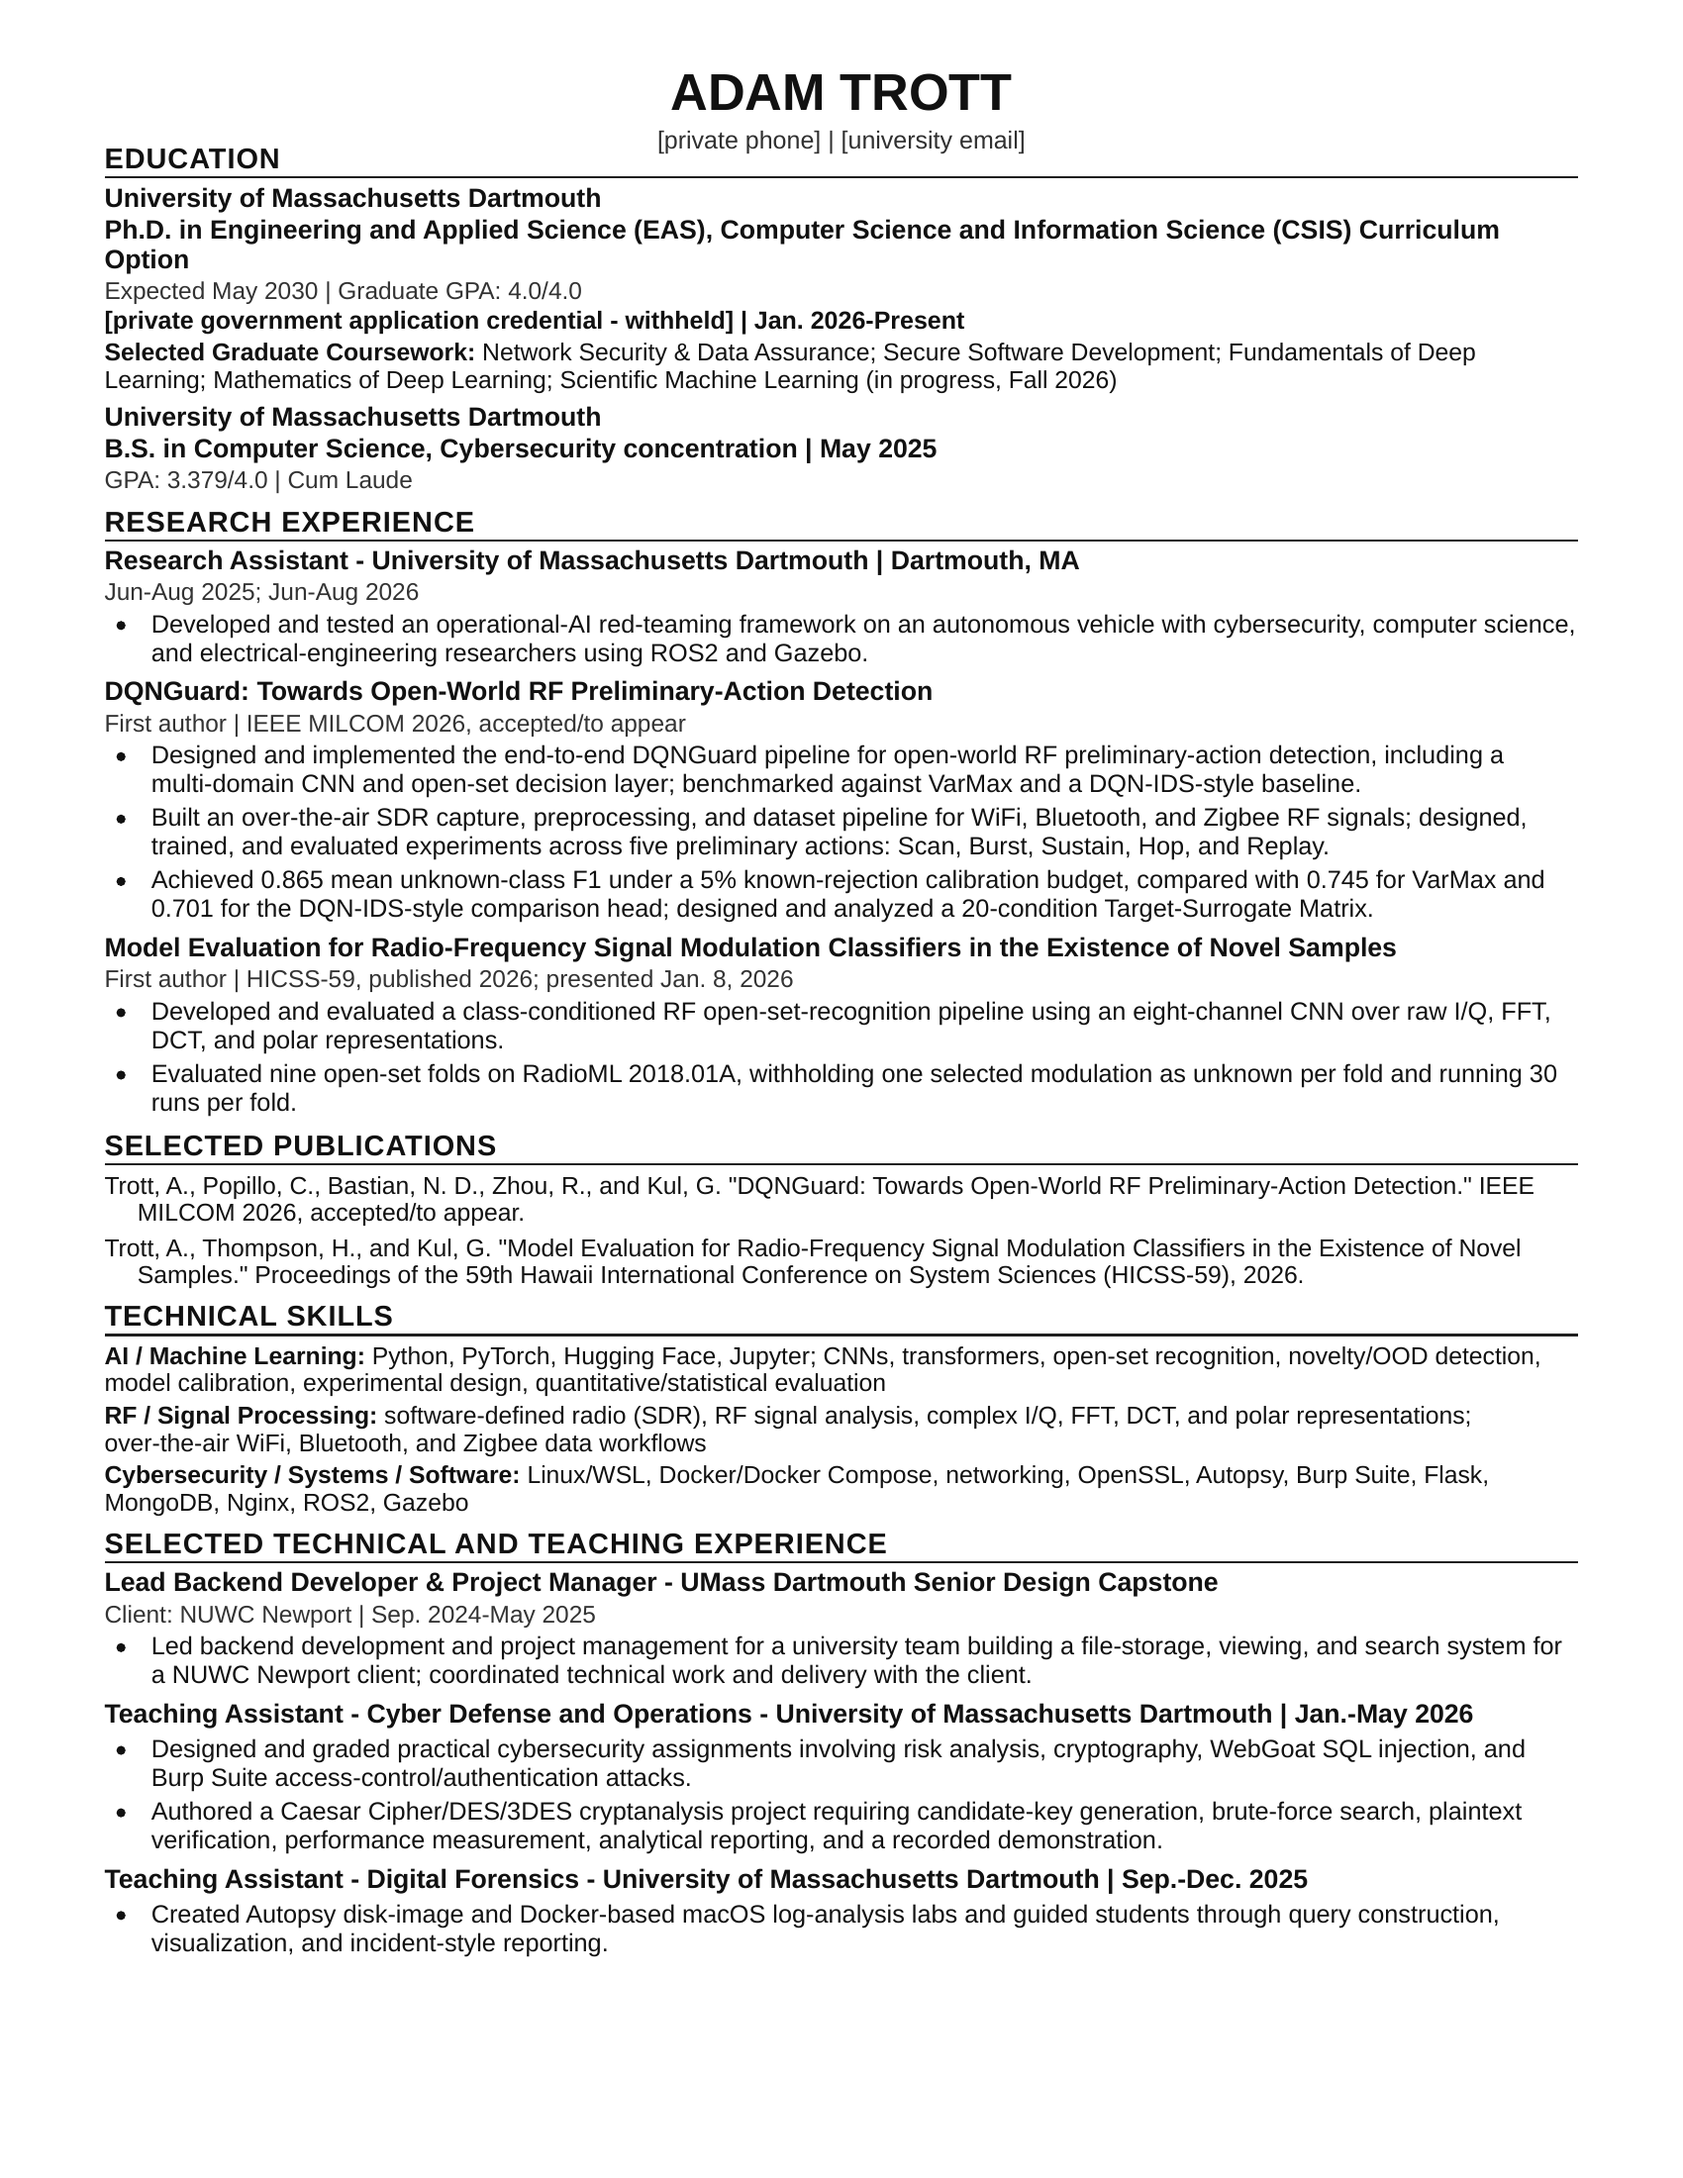
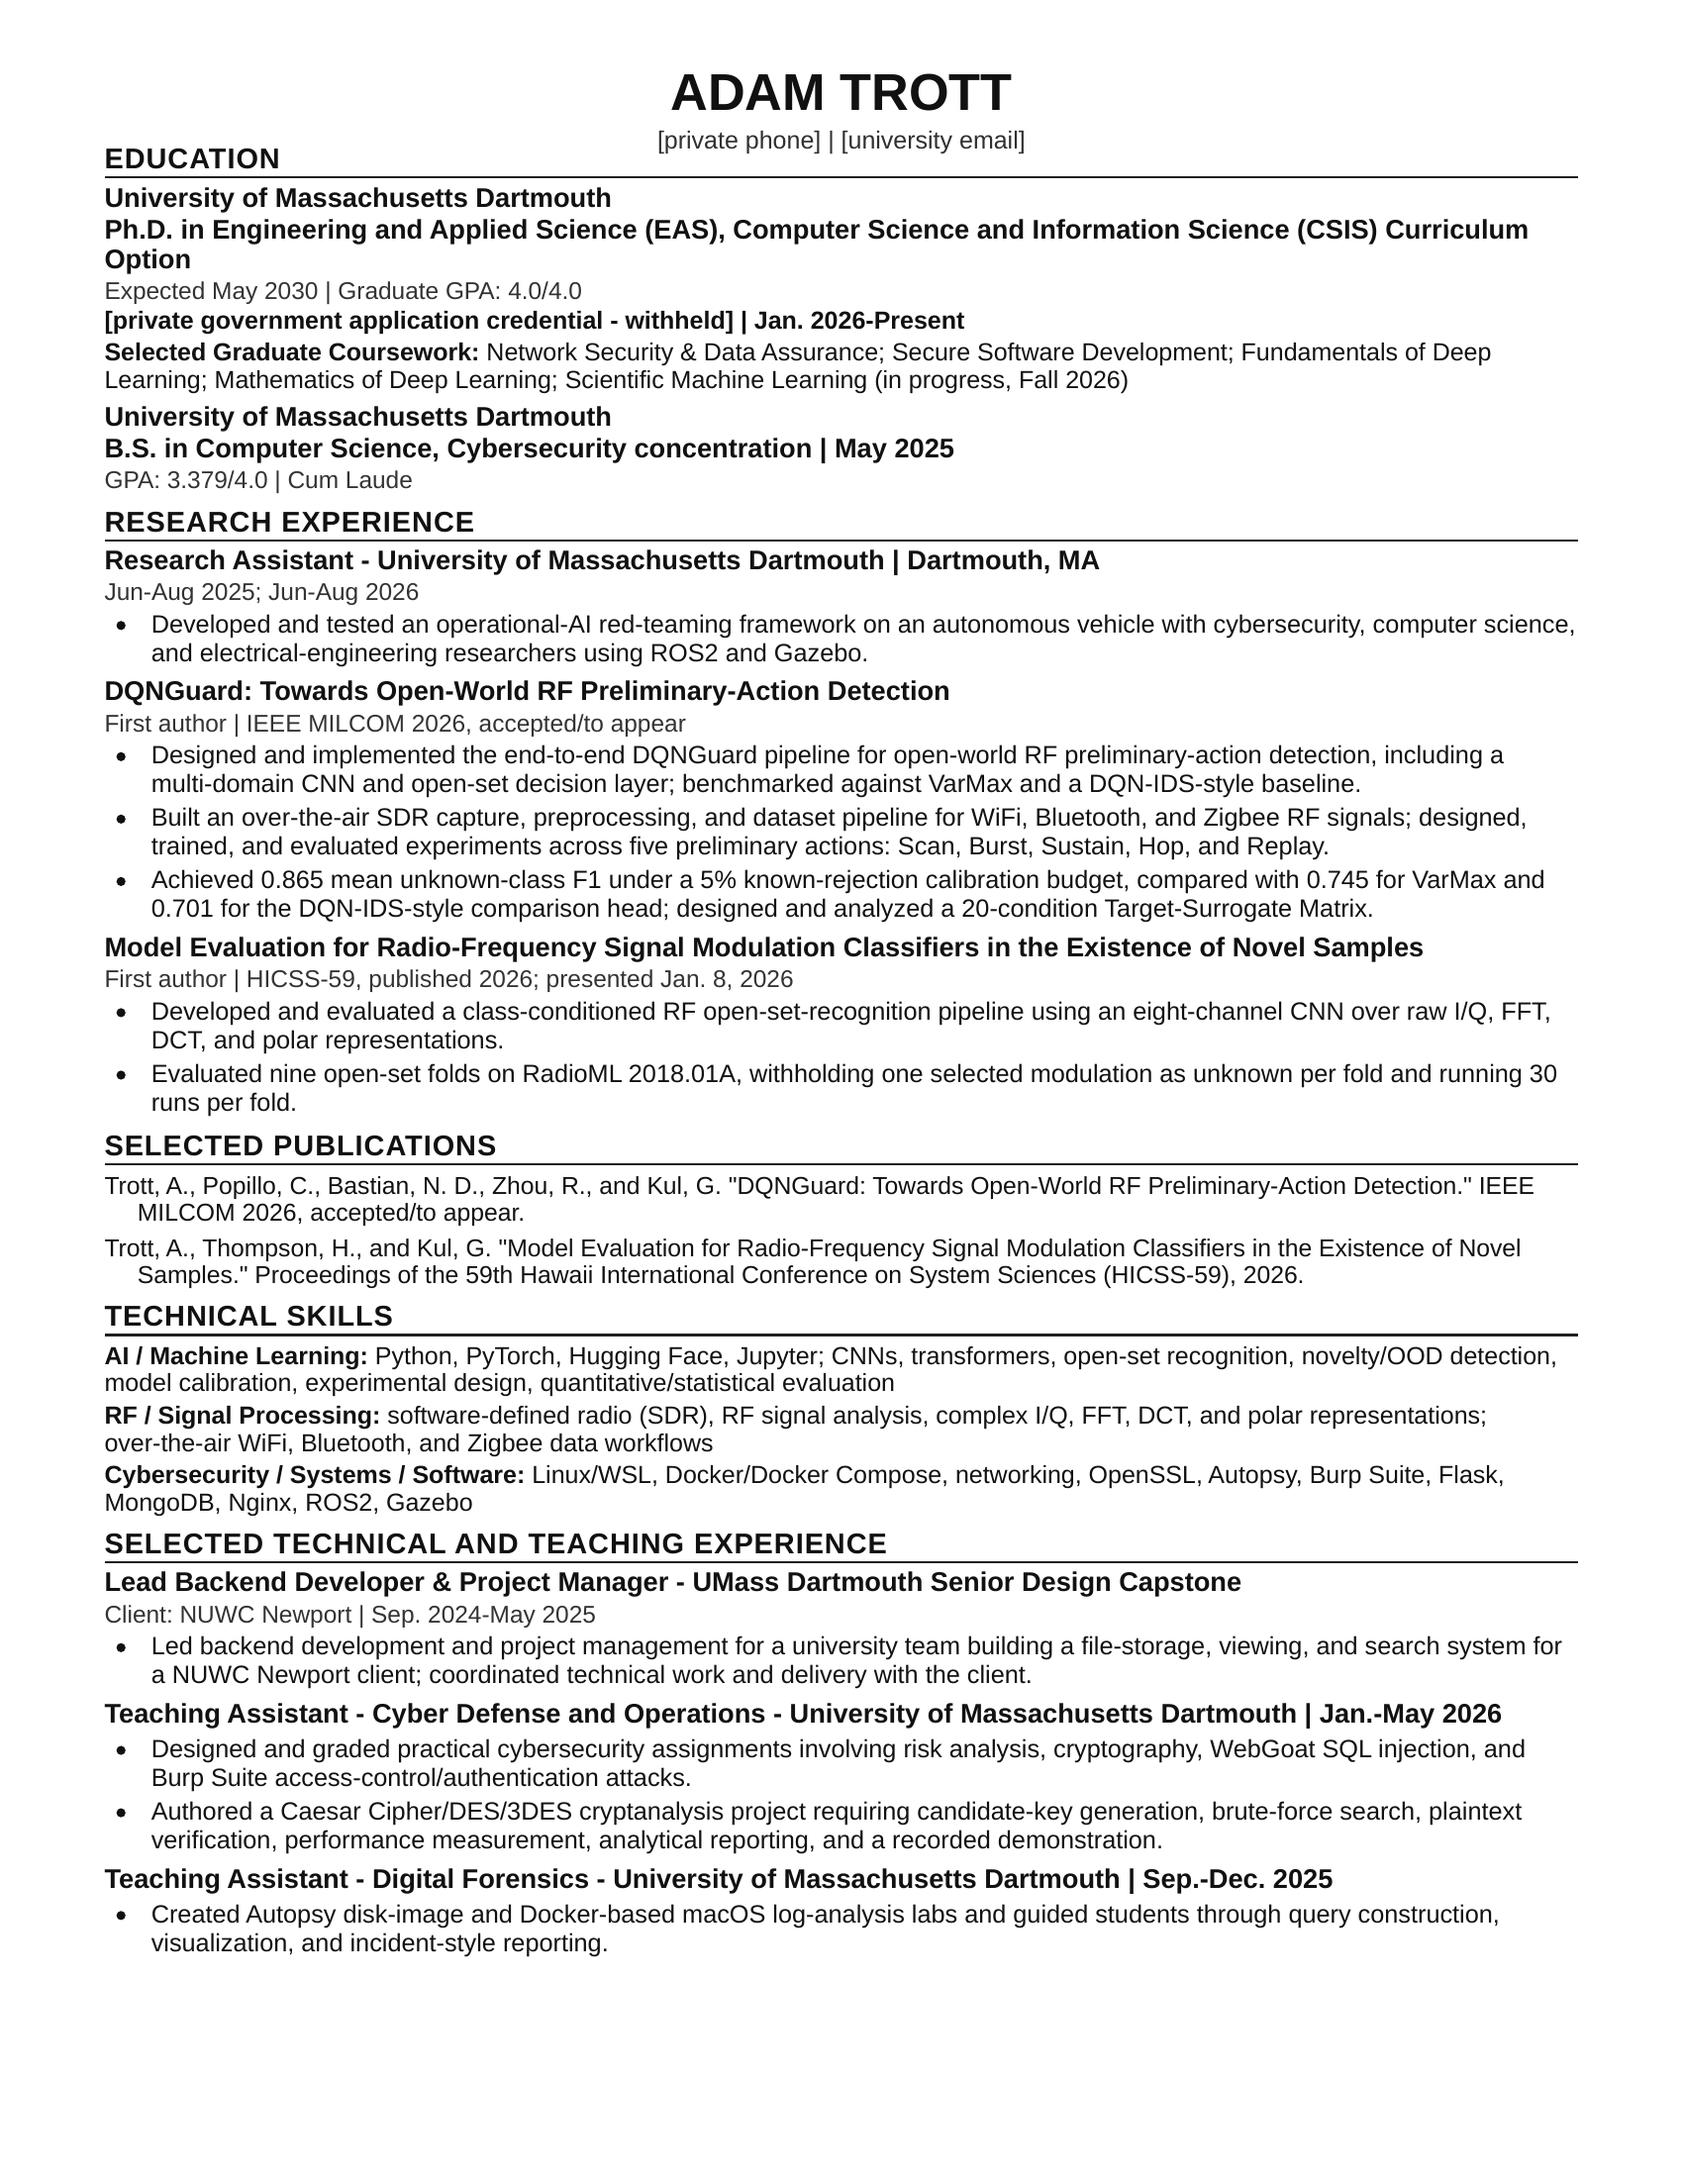
Harden NREIP resume cold-start workflow

diff --git a/resumes/applications/nreip2027/resume/build_resume.py b/resumes/applications/nreip2027/resume/build_resume.py
@@ -28,7 +28,7 @@ FONT_FAMILY = "Liberation Sans"
 NAME_SIZE = 18.8
 CONTACT_SIZE = 9.0
 SECTION_SIZE = 10.4
-HEADING_SIZE = 9.6
+HEADING_SIZE = 9.8
 BODY_SIZE = 9.1
 META_SIZE = 8.8
 PUB_SIZE = 8.9
@@ -224,17 +224,29 @@ def require_command(name: str) -> None:
 
 
 def fc_file(pattern: str) -> Path:
+    if shutil.which("fc-match") is None:
+        raise RuntimeError("required command not found: fc-match")
+
     result = run(
-        ["fc-match", "-f", "%{file}\n", pattern],
+        ["fc-match", "-f", "%{family}\n%{file}\n", pattern],
         capture=True,
     ).strip().splitlines()
 
-    if not result:
+    if len(result) < 2:
         raise RuntimeError(f"font not found: {pattern}")
 
-    path = Path(result[0])
+    families = [item.strip() for item in result[0].split(",")]
+
+    if FONT_FAMILY not in families:
+        raise RuntimeError(
+            f"Fontconfig substituted {result[0]!r} for required "
+            f"family {FONT_FAMILY!r}"
+        )
+
+    path = Path(result[1])
     if not path.is_file():
         raise RuntimeError(f"font path does not exist: {path}")
+
     return path
 
 
@@ -331,27 +343,17 @@ def verify_locked_sources() -> None:
 
     plan_n = norm_locked_source(plan)
 
-    required = [
-        CONTENT["education"]["institution_grad"],
-        CONTENT["education"]["degree_grad"],
-        CONTENT["education"]["grad_meta"],
-        CONTENT["education"]["institution_bs"],
-        CONTENT["education"]["degree_bs"],
-        CONTENT["education"]["bs_meta"],
-        CONTENT["research"]["dqn_title"],
-        CONTENT["research"]["dqn_meta"],
-        CONTENT["research"]["hicss_title"],
-        CONTENT["research"]["hicss_meta"],
-        *CONTENT["research"]["dqn_bullets"],
-        *CONTENT["research"]["hicss_bullets"],
-        *CONTENT["publications"],
-        CONTENT["experience"]["capstone_bullet"],
-        *CONTENT["experience"]["cyber_bullets"],
-        CONTENT["experience"]["forensics_bullet"],
-    ]
+    def string_leaves(value):
+        if isinstance(value, str):
+            yield value
+        elif isinstance(value, dict):
+            for child in value.values():
+                yield from string_leaves(child)
+        elif isinstance(value, (list, tuple)):
+            for child in value:
+                yield from string_leaves(child)
 
-    for label, body in CONTENT["skills"]:
-        required.extend([label, body])
+    required = list(string_leaves(CONTENT))
 
     for item in required:
         if norm(item) not in plan_n:
@@ -679,7 +681,7 @@ def build_page(contact: str, credential: str) -> Page:
         page,
         CONTENT["education"]["coursework_label"],
         CONTENT["education"]["coursework"],
-        size=8.9,
+        size=9.0,
         leading=10.0,
         gap=1.3,
     )
@@ -725,7 +727,7 @@ def build_page(contact: str, credential: str) -> Page:
             page,
             label,
             body,
-            size=8.9,
+            size=9.0,
             leading=9.95,
             gap=0.0 if idx == 0 else 1.8,
         )
@@ -771,23 +773,6 @@ def render_svg_to_pdf(svg_path: Path, pdf_path: Path) -> None:
             str(svg_path),
             "--export-area-page",
             f"--export-filename={pdf_path}",
-        ]
-    )
-
-
-def merge_pdf(page1: Path, page2: Path, output: Path) -> None:
-    run(
-        [
-            "gs",
-            "-q",
-            "-dSAFER",
-            "-dBATCH",
-            "-dNOPAUSE",
-            "-sDEVICE=pdfwrite",
-            "-dCompatibilityLevel=1.6",
-            f"-sOutputFile={output}",
-            str(page1),
-            str(page2),
         ]
     )
 
@@ -932,44 +917,6 @@ def render_ghostscript(pdf: Path, temp_dir: Path) -> list[Path]:
         raise RuntimeError("Ghostscript secondary render failed.")
 
     return [page]
-
-def create_contact_sheet(
-    page1: Path,
-    page2: Path,
-    output: Path,
-) -> None:
-    images = [
-        Image.open(page1).convert("RGB"),
-        Image.open(page2).convert("RGB"),
-    ]
-
-    target_h = 1100
-    thumbs = []
-
-    for image in images:
-        scale = target_h / image.height
-        target_w = round(image.width * scale)
-        thumbs.append(
-            image.resize(
-                (target_w, target_h),
-                Image.Resampling.LANCZOS,
-            )
-        )
-
-    gap = 24
-    margin = 18
-    width = sum(img.width for img in thumbs) + gap + margin * 2
-    height = target_h + margin * 2
-
-    sheet = Image.new("RGB", (width, height), "white")
-
-    x = margin
-    for image in thumbs:
-        sheet.paste(image, (x, margin))
-        x += image.width + gap
-
-    sheet.save(output, "PNG")
-
 
 def check_renderer_dimensions(
     poppler_pages: list[Path],

diff --git a/resumes/applications/nreip2027/SVG_PRODUCTION_SPEC.md b/resumes/applications/nreip2027/SVG_PRODUCTION_SPEC.md
@@ -155,21 +155,22 @@ The rendered document should still read correctly if all formatting is stripped.
 Use a professional sans-serif font with reliable PDF embedding and text
 extraction.
 
-Preferred family:
+Required family for the current implementation:
 
 `Liberation Sans`
 
-Accepted fallback only if font preflight establishes availability and stable
-metrics:
-
-`Arial`
+The current builder does **not** implement a fallback font.
 
 Do not use a custom downloaded font or commit font files to the repository.
 
-The builder must verify that the selected production font is available before
-rendering.
+The builder must verify that Fontconfig resolves the requested production family
+to **Liberation Sans** before rendering.
 
-Do not silently substitute a materially different font.
+If Liberation Sans is unavailable, fail the build rather than accepting a
+Fontconfig nearest-match substitution.
+
+A future fallback font requires an explicit production-spec revision and metric /
+visual validation before use.
 
 ### Minimum sizes
 
@@ -641,13 +642,17 @@ Inspect for:
 
 A successful script exit is not evidence of visual correctness.
 
-For the final private PDF, perform a secondary-renderer sanity check when a
-second independent PDF renderer is available. The objective is to catch
-renderer-specific clipping, glyph substitution, font behavior, or layout
-differences before submission.
+The builder should render the PDF independently with Poppler and Ghostscript.
 
-A renderer disagreement that materially changes text or layout is a QA failure
-until understood.
+Automated secondary-renderer QA may verify that both renderers successfully
+produce the expected page dimensions. That check is a **sanity check**, not pixel
+or layout equivalence.
+
+Human visual QA remains responsible for identifying clipping, glyph
+substitution, font behavior, or layout defects that a dimension-only automated
+check cannot detect.
+
+Any visually material renderer disagreement is a QA failure until understood.
 
 ## Public/private parity QA
 

diff --git a/resumes/applications/nreip2027/CONTEXT.md b/resumes/applications/nreip2027/CONTEXT.md
@@ -35,7 +35,7 @@ content-locked.
 - resume content architecture and exact résumé copy: content-locked; page budget revised to one page after first visual build;
 - SVG production specification: production-locked and explicitly revised to a one-page contract after first visual QA;
 - builder: one-page SVG/PDF implementation operational and visually reviewed;
-- SVG/PDF/PNG artifacts: one-page public and private builds pass structural, semantic, privacy, renderer-parity, and first visual QA;
+- SVG/PDF/PNG artifacts: one-page public and private builds pass structural, semantic, privacy, dual-render existence/dimension sanity checks, and first visual QA;
 - cold-start validation: not yet performed.
 
 ## First implementation result
@@ -53,7 +53,7 @@ The revised one-page build:
 - preserves the locked semantic content;
 - preserves selectable/extractable PDF text;
 - fits within the established minimum typography constraints;
-- passes independent Poppler/Ghostscript rendering checks;
+- renders successfully through both Poppler and Ghostscript with matching page dimensions;
 - keeps private submission fields confined to the ignored private build; and
 - is visually dense but readable, with research remaining the dominant section.
 

diff --git a/resumes/CONTEXT.md b/resumes/CONTEXT.md
@@ -124,9 +124,14 @@ the user explicitly decides otherwise include:
 Local private inputs belong under ignored `resumes/private/` or an
 application-specific ignored `private/` directory.
 
-A future builder may distinguish a tracked **public review** artifact from a
-local **private submission** artifact. That behavior is not yet implemented and
-must not be assumed until the production workflow establishes it.
+The NREIP implementation now demonstrates the public/private artifact pattern:
+
+- tracked **public review** artifacts contain only public-safe placeholders; and
+- local **private submission** artifacts resolve approved private values from
+  ignored application-specific inputs and remain ignored by Git.
+
+Future application builders may reuse this pattern only when their own production
+contract establishes the same privacy boundary.
 
 If a cold-start reader needs a private field that is not available in tracked
 context, ask the user for it rather than inventing or recovering it indirectly.

diff --git a/resumes/applications/nreip2027/RESUME_PLAN.md b/resumes/applications/nreip2027/RESUME_PLAN.md
@@ -5,13 +5,15 @@ Status: **CONTENT LOCKED**
 This file is the application-specific content-selection plan for the NREIP 2027
 résumé.
 
-It is not yet authorized for final rendering.
+This plan is content-locked and authorized for production under the separate
+production contract in `SVG_PRODUCTION_SPEC.md`.
 
 Candidate factual claims are governed by `../../context/EVIDENCE.md`.
 NREIP requirements and selection signals are governed by `JOB_SPEC.md`.
 
-When this file is eventually marked `CONTENT LOCKED`, production/layout code may
-render its decisions but must not silently rewrite them.
+Production/layout code may render these locked decisions but must not silently
+rewrite them. Any substantive résumé wording change requires explicitly reopening
+this plan, reviewing the change, and locking it again.
 
 ## Audience and purpose
 
